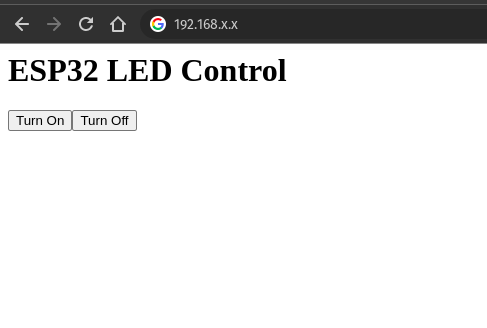
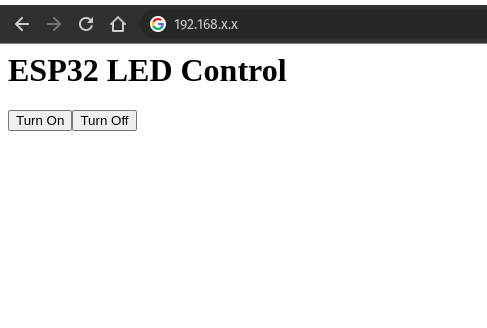
pic size fixed

Changed region(s): [[0.0, 0.0, 1.0, 0.0305]]

diff --git a/_site/projects/ESP32-Temperature-Sensor/index.html b/_site/projects/ESP32-Temperature-Sensor/index.html
@@ -312,7 +312,7 @@
 </ul>
 
 <p align="center">
-  <img src="/assets/images/post2/1.jpg/" width="250" height="250" />
+  <img src="/assets/images/post2/1.jpg" width="250" height="250" />
 </p>
 
 <h2 id="setup">Setup</h2>
@@ -326,7 +326,7 @@
 </ol>
 
 <p align="center">
-  <img src="/assets/images/post2/2.jpg/" width="250" height="250" />
+  <img src="/assets/images/post2/2.jpg" width="250" height="250" />
 </p>
 
 <h2 id="programming">Programming</h2>
@@ -446,7 +446,7 @@
 <p>The handleRoot() function builds an HTML page with the temperature and pressure readings displayed in a centered, nicely formatted layout. It then sends this page to the client when the root path is requested.</p>
 
 <p align="center">
-  <img src="/assets/images/post2/3.png/" width="400" height="400" />
+  <img src="/assets/images/post2/3.png" width="400" height="400" />
 </p>
 
 <h2 id="conclusion">Conclusion</h2>

diff --git a/_site/embedded/ESP32-LED-Control/index.html b/_site/embedded/ESP32-LED-Control/index.html
@@ -705,7 +705,7 @@
 <p>In the browser, we now should be able to control the LED from the server.</p>
 
 <p align="center">
-  <img src="/assets/images/post1/5.png" width="3300" height="300" />
+  <img src="/assets/images/post1/5.png" width="300" height="300" />
 </p>
 
 <h1 id="a-flutter-app-to-control-the-led">A Flutter app to control the LED</h1>

diff --git a/_site/projects/Building-Embedded-Systems-with-Dart-and-Flutter/index.html b/_site/projects/Building-Embedded-Systems-with-Dart-and-Flutter/index.html
@@ -322,7 +322,7 @@
 </ul>
 
 <p align="center">
-  <img src="/assets/images/post3/1.jpg/" width="250" height="250" />
+  <img src="/assets/images/post3/1.jpg" width="250" height="250" />
 </p>
 
 <h1 id="setup">Setup</h1>

diff --git a/_posts/2023-02-17-ESP32-Temperature-Sensor.md b/_posts/2023-02-17-ESP32-Temperature-Sensor.md
@@ -33,7 +33,7 @@ To complete this project, we will need the following materials:
 
 
 <p align="center">
-  <img src="{{ '/assets/images/post2/1.jpg/' | relative_url }}" width="250" height="250">
+  <img src="{{ '/assets/images/post2/1.jpg' | relative_url }}" width="250" height="250">
 </p>
 
 
@@ -47,7 +47,7 @@ To complete this project, we will need the following materials:
 
 
 <p align="center">
-  <img src="{{ '/assets/images/post2/2.jpg/' | relative_url }}" width="250" height="250">
+  <img src="{{ '/assets/images/post2/2.jpg' | relative_url }}" width="250" height="250">
 </p>
 
 ## Programming
@@ -169,7 +169,7 @@ The handleRoot() function builds an HTML page with the temperature and pressure 
 
 
 <p align="center">
-  <img src="{{ '/assets/images/post2/3.png/' | relative_url }}" width="400" height="400">
+  <img src="{{ '/assets/images/post2/3.png' | relative_url }}" width="400" height="400">
 </p>
 
 

diff --git a/_posts/2023-02-10-ESP32-LED-Control.md b/_posts/2023-02-10-ESP32-LED-Control.md
@@ -443,7 +443,7 @@ In the browser, we now should be able to control the LED from the server.
 
 
 <p align="center">
-  <img src="{{ '/assets/images/post1/5.png' | relative_url }}" width="3300" height="300">
+  <img src="{{ '/assets/images/post1/5.png' | relative_url }}" width="300" height="300">
 </p>
 
 # A Flutter app to control the LED

diff --git a/_posts/2023-03-03-Building-Embedded-Systems-with-Dart-and-Flutter.md b/_posts/2023-03-03-Building-Embedded-Systems-with-Dart-and-Flutter.md
@@ -39,9 +39,9 @@ To program and debug the WROOM-32D board, we will be using Visual Studio Code an
 - VS Code
 
 <p align="center">
-  <img src="{{ '/assets/images/post3/1.jpg/' | relative_url }}" width="250" height="250">
+  <img src="{{ '/assets/images/post3/1.jpg' | relative_url }}" width="250" height="250">
 </p>
-  
+
 
 # Setup
 
